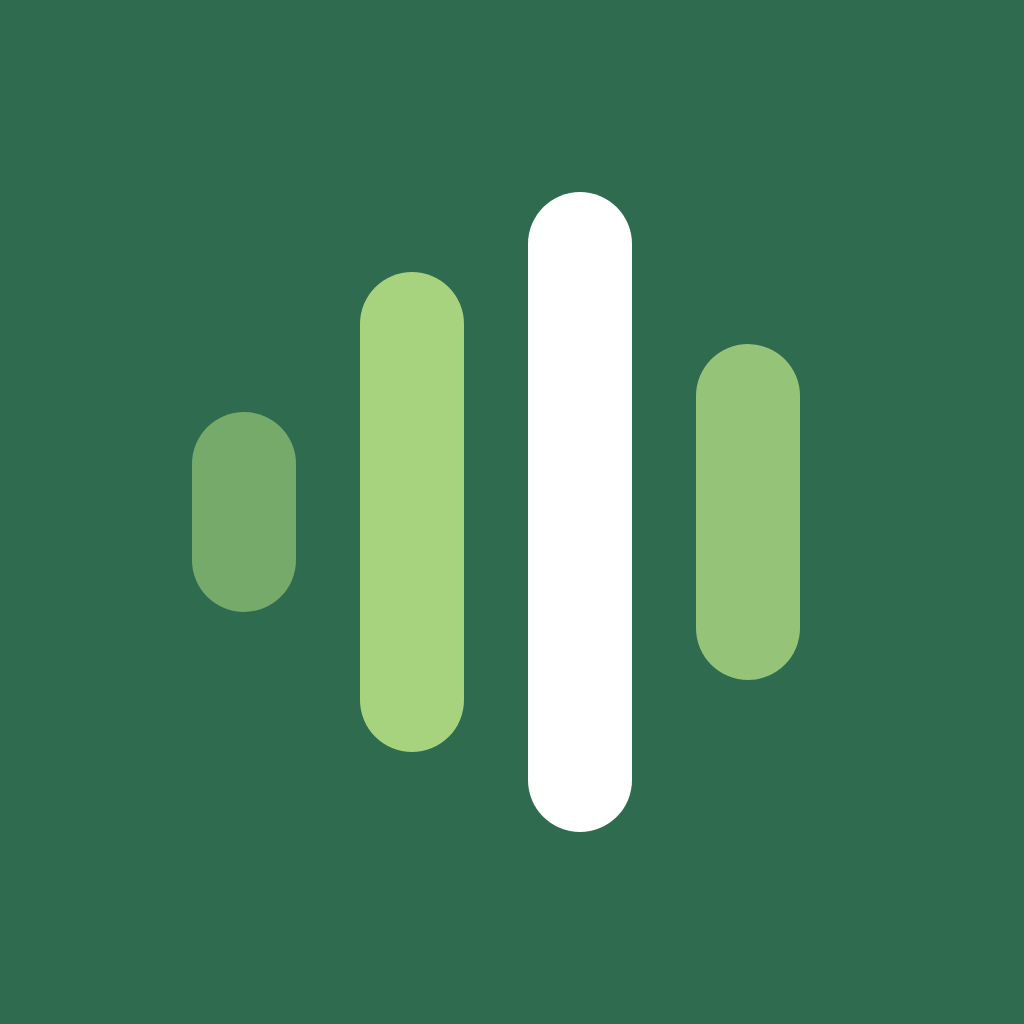
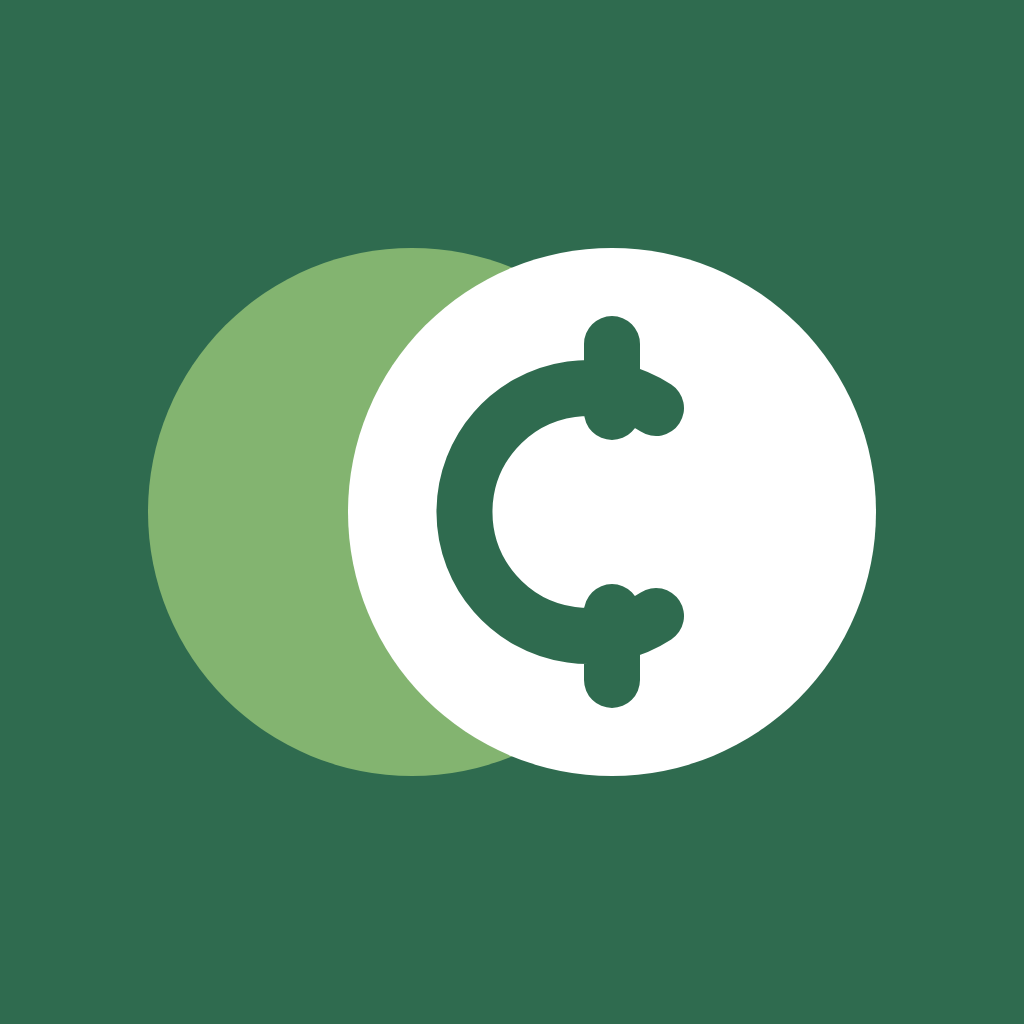
Rebrand to TwoCents; make playback reliable on iPhone
- App is now TwoCents (logo, icon, iOS/Android names, copy). Cards show
  Like, Comment and Repost (public memos only); 'Reposted by ...' on Home.
- iPhones only allow audio to start right when you tap, but playback first
  looked up the memo's audio address. Now addresses are fetched ahead for
  memos on screen, and an uncached tap starts a silent clip to keep
  playback allowed while the address loads.
- Clear messages when a memo can't play (no access, deleted, network,
  unsupported format, or tap again) instead of a generic error.

Claude-Session: https://claude.ai/code/session_01JCjs9WpGDkg7Lxdni9FUqd

Changed region(s): [[0.125, 0.1875, 0.875, 0.8125]]

diff --git a/www/app.js b/www/app.js
@@ -1,4 +1,4 @@
-/* RiffRaff — scrollable voice memos.
+/* TwoCents — scrollable voice memos.
  * Vanilla JS modules, no build step for the app itself.
  * Data comes from a backend: demo (on-device examples) or Firebase (real accounts),
  * chosen by www/firebase-config.js.
@@ -66,9 +66,9 @@ function onHome(m) {
     || (m.amplifiedBy && m.amplifiedBy.length > 0);
 }
 function amplifiedText(names) {
-  if (names.length === 1) return `Amplified by ${names[0]}`;
-  if (names.length === 2) return `Amplified by ${names[0]} and ${names[1]}`;
-  return `Amplified by ${names[0]} and ${names.length - 1} others`;
+  if (names.length === 1) return `Reposted by ${names[0]}`;
+  if (names.length === 2) return `Reposted by ${names[0]} and ${names[1]}`;
+  return `Reposted by ${names[0]} and ${names.length - 1} others`;
 }
 const feedLabel = $('#feed-label');
 
@@ -137,11 +137,11 @@ function memoHTML(m, reason) {
         </button>
         <button class="act" data-act="comments">
           <svg viewBox="0 0 24 24"><path d="M4 5h16v11H9l-5 4z"/></svg>
-          <span class="act-label">Riff</span><span class="act-count">${fmtCount(m.comments || 0)}</span>
+          <span class="act-label">Comment</span><span class="act-count">${fmtCount(m.comments || 0)}</span>
         </button>
-        ${m.audience === 'global' ? `<button class="act act-amp ${m.amplified ? 'amplified' : ''}" data-act="amplify" aria-pressed="${!!m.amplified}" ${mine ? 'disabled title="You can’t amplify your own memo"' : ''}>
-          <svg viewBox="0 0 24 24"><path d="M3 10v4h3l5 4V6L6 10zM15 9a4 4 0 0 1 0 6M18 6a8 8 0 0 1 0 12"/></svg>
-          <span class="act-label">Amplify</span><span class="act-count">${fmtCount(m.amplifies || 0)}</span>
+        ${m.audience === 'global' ? `<button class="act act-amp ${m.amplified ? 'amplified' : ''}" data-act="amplify" aria-pressed="${!!m.amplified}" ${mine ? 'disabled title="You can’t repost your own memo"' : ''}>
+          <svg viewBox="0 0 24 24"><path d="M4 11V9a3 3 0 0 1 3-3h12m-3-3 3 3-3 3M20 13v2a3 3 0 0 1-3 3H5m3 3-3-3 3-3"/></svg>
+          <span class="act-label">Repost</span><span class="act-count">${fmtCount(m.amplifies || 0)}</span>
         </button>` : ''}
         <button class="more-btn" data-act="more" aria-label="More options for this memo">${ICON_MORE}</button>
       </div>
@@ -149,6 +149,7 @@ function memoHTML(m, reason) {
 }
 
 function renderList(el, memos, emptyText, reasons) {
+  prefetchAudio(memos);
   el.innerHTML = memos.length
     ? memos.map(m => memoHTML(m, reasons && reasons.get(m.id))).join('')
     : `<li class="empty">${emptyText}</li>`;
@@ -227,7 +228,7 @@ function rankDiscover(memos) {
     const plays = listening.plays[m.userId] || 0;
     if (plays) { affinity += Math.min(plays, 5) * 0.5; reason = reason || `You’ve listened to @${m.author.handle}`; }
     const popularity = Math.log1p(m.likes) + 1.5 * Math.log1p(m.comments || 0) + 2 * Math.log1p(m.amplifies || 0);
-    if (!reason && popularity >= 3) reason = 'Popular on RiffRaff';
+    if (!reason && popularity >= 3) reason = 'Popular on TwoCents';
     const ageHours = Math.max(0, now - m.createdAt) / 36e5;
     let score = (1 + popularity + affinity) / Math.pow(ageHours + 2, 0.8);
     if (state.following.has(m.userId)) { score *= 0.5; reason = ''; }
@@ -347,6 +348,34 @@ async function sourceFor(m) {
   return urlCache.get(m.id);
 }
 
+// iPhones only let audio start right when you tap. Looking up a memo's audio
+// address takes a moment, so: fetch addresses ahead of time for memos on screen,
+// and if one isn't ready, start a silent clip on tap to keep playback allowed.
[1 lines of base64/hex data omitted]
+const prefetching = new Set();
+function prefetchAudio(memos) {
+  if (!backend || !backend.me) return;
+  memos.slice(0, 15).forEach(m => {
+    if (urlCache.has(m.id) || prefetching.has(m.id)) return;
+    prefetching.add(m.id);
+    backend.audioUrl(m)
+      .then(url => urlCache.set(m.id, url))
+      .catch(() => {})
+      .finally(() => prefetching.delete(m.id));
+  });
+}
+function playErrorMessage(e) {
+  const code = (e && e.code) || '';
+  if (code === 'storage/unauthorized') return 'You don’t have access to this memo anymore.';
+  if (code === 'storage/object-not-found') return 'This memo’s audio was deleted.';
+  if (code.startsWith('storage/')) return 'Couldn’t load the audio. Check your connection and try again.';
+  if (e && e.name === 'NotAllowedError') return 'Tap play again to listen.';
+  if ((e && e.name === 'NotSupportedError') || (audio.error && audio.error.code === 4)) {
+    return 'This memo’s audio format can’t play on this device.';
+  }
+  return 'Couldn’t play this memo. Try again.';
+}
+
 function cardsFor(id) {
   return document.querySelectorAll(`.memo[data-id="${CSS.escape(id)}"]`);
 }
@@ -395,8 +424,15 @@ async function togglePlay(m, seekFrac) {
   player.memo = m;
   markPlaying(m.id, true);
   try {
-    audio.src = await sourceFor(m);
-    if (player.memo !== m) return;
+    if (urlCache.has(m.id)) {
+      audio.src = urlCache.get(m.id); // ready: start playing within the tap
+    } else {
+      audio.src = SILENT_AUDIO;       // keep playback allowed while we look it up
+      audio.play().catch(() => {});
+      const url = await sourceFor(m);
+      if (player.memo !== m) return;
+      audio.src = url;
+    }
     if (seekFrac != null) {
       await new Promise(r => {
         if (audio.readyState >= 1) r();
@@ -407,7 +443,10 @@ async function togglePlay(m, seekFrac) {
     audio.playbackRate = state.rate;
     await audio.play();
   } catch (e) {
-    toast('Couldn’t play this memo.');
+    console.error('Playback failed', e, audio.error);
+    if (player.memo === m) stopPlayback();
+    toast(playErrorMessage(e));
+    return;
   }
   markPlaying(m.id, true);
   cancelAnimationFrame(player.raf);
@@ -424,6 +463,7 @@ function stopPlayback() {
   paintProgress(id, 0);
 }
 audio.addEventListener('ended', () => {
+  if (audio.src.startsWith('data:')) return; // the silent placeholder, not a memo
   const m = player.memo;
   stopPlayback();
   // Keep scrolling hands-free: play the next memo in the visible feed.
@@ -439,6 +479,12 @@ audio.addEventListener('ended', () => {
   }
 });
 audio.addEventListener('pause', () => player.memo && markPlaying(player.memo.id, true));
+audio.addEventListener('error', () => {
+  if (!player.memo || audio.src.startsWith('data:')) return;
+  console.error('Audio error', audio.error);
+  stopPlayback();
+  toast(playErrorMessage(null));
+});
 
 // ---------- Recorder ----------
 const rec = {
@@ -510,7 +556,7 @@ function drawLevels(levels) {
 function micErrorMessage(e) {
   if (!window.isSecureContext) return 'Recording needs a secure connection. Open the app from its https:// address.';
   if (!navigator.mediaDevices || !window.MediaRecorder) return 'This browser can’t record audio. Try Safari or Chrome.';
-  if (e && e.name === 'NotAllowedError') return 'RiffRaff needs your microphone. Allow microphone access in your browser or phone settings, then tap record again.';
+  if (e && e.name === 'NotAllowedError') return 'TwoCents needs your microphone. Allow microphone access in your browser or phone settings, then tap record again.';
   if (e && e.name === 'NotFoundError') return 'No microphone was found on this device.';
   return 'Couldn’t start the microphone. Close other apps using it and try again.';
 }
@@ -852,7 +898,7 @@ async function toggleAmplify(m) {
   paintAmplify(m);
   try {
     Object.assign(m, await backend.toggleAmplify({ ...m, ...before }));
-    toast(m.amplified ? 'Amplified to your followers' : 'Amplify removed');
+    toast(m.amplified ? 'Reposted to your followers' : 'Repost removed');
   } catch (e) {
     Object.assign(m, before);
     toast(friendlyError(e));
@@ -880,7 +926,7 @@ async function toggleLike(m) {
 }
 
 async function deleteMemo(m) {
-  const ok = await chooseAction('Delete this memo? Its likes, riffs and amplifies go with it. This can’t be undone.',
+  const ok = await chooseAction('Delete this memo? Its likes, comments and reposts go with it. This can’t be undone.',
     [{ key: 'delete', label: 'Delete memo', danger: true }]);
   if (ok !== 'delete') return;
   if (player.memo && player.memo.id === m.id) stopPlayback();
@@ -1028,7 +1074,7 @@ const REASONS = [
 
 // target: {type, targetId, targetAuthorId, memoId, text, author}
 async function reportFlow(target) {
-  const what = { memo: 'this memo', comment: 'this riff', user: `@${target.author.handle}` }[target.type];
+  const what = { memo: 'this memo', comment: 'this comment', user: `@${target.author.handle}` }[target.type];
   const reason = await chooseAction(`Why are you reporting ${what}?`, REASONS);
   if (!reason) return;
   const { author, ...report } = target;
@@ -1045,7 +1091,7 @@ async function reportFlow(target) {
 async function blockUser(user, confirmed) {
   if (!confirmed) {
     const ok = await chooseAction(
-      `Block @${user.handle}? They won’t be able to follow you, riff on your memos or send you memos, and you won’t see theirs. They won’t be told.`,
+      `Block @${user.handle}? They won’t be able to follow you, comment on your memos or send you memos, and you won’t see theirs. They won’t be told.`,
       [{ key: 'block', label: `Block @${user.handle}`, danger: true }]);
     if (ok !== 'block') return;
   }
@@ -1093,14 +1139,14 @@ function commentHTML(c) {
         <div class="comment-meta"><b data-user="${esc(u.id)}">${esc(u.name)}</b> · ${timeAgo(c.createdAt)}</div>
         <p class="comment-text">${esc(filterText(c.text))}</p>
       </div>
-      <button class="more-btn" data-cmore="${esc(c.id)}" aria-label="More options for this riff">${ICON_MORE}</button>
+      <button class="more-btn" data-cmore="${esc(c.id)}" aria-label="More options for this comment">${ICON_MORE}</button>
     </li>`;
 }
 function renderComments() {
   $('#comment-list').innerHTML = comments.length
     ? comments.map(commentHTML).join('')
-    : '<li class="empty">No riffs yet. Start one.</li>';
-  $('#comments-title').textContent = comments.length === 1 ? '1 riff' : `${comments.length} riffs`;
+    : '<li class="empty">No comments yet. Be the first.</li>';
+  $('#comments-title').textContent = comments.length === 1 ? '1 comment' : `${comments.length} comments`;
 }
 function setCommentCount(m, n) {
   m.comments = n;
@@ -1121,7 +1167,7 @@ function openComments(m) {
   openMemo = m;
   comments = [];
   $('#comment-list').innerHTML = '<li class="empty">Loading…</li>';
-  $('#comments-title').textContent = 'Riffs';
+  $('#comments-title').textContent = 'Comments';
   commentInput.value = '';
   $('#comment-send').disabled = true;
   commentsSheet.hidden = false;
@@ -1151,7 +1197,7 @@ $('#comment-form').addEventListener('submit', async e => {
     const list = $('#comment-list');
     list.scrollTop = list.scrollHeight;
   } catch (err) {
-    toast(err && err.code === 'permission-denied' ? 'You can’t riff on this memo.' : friendlyError(err));
+    toast(err && err.code === 'permission-denied' ? 'You can’t comment on this memo.' : friendlyError(err));
     $('#comment-send').disabled = false;
   }
 });
@@ -1164,12 +1210,12 @@ $('#comment-list').addEventListener('click', async e => {
   const mine = c.userId === backend.me.id;
   const myMemo = m.userId === backend.me.id;
   const items = [];
-  if (mine || myMemo) items.push({ key: 'delete', label: 'Delete riff', danger: true });
+  if (mine || myMemo) items.push({ key: 'delete', label: 'Delete comment', danger: true });
   if (!mine) {
-    items.push({ key: 'report', label: 'Report riff', danger: true });
+    items.push({ key: 'report', label: 'Report comment', danger: true });
     items.push({ key: 'block', label: `Block @${c.author.handle}`, danger: true });
   }
-  const key = await chooseAction(mine ? 'Your riff' : `Riff from @${c.author.handle}`, items);
+  const key = await chooseAction(mine ? 'Your comment' : `Comment from @${c.author.handle}`, items);
   if (key === 'delete') {
     try {
       await backend.deleteComment(m, c);
@@ -1684,9 +1730,9 @@ async function boot() {
       backend = mod.createFirebaseBackend(config, { emulators });
     } catch (e) {
       // With real accounts configured, never fall back to demo mode: say what happened instead.
-      console.error('RiffRaff could not connect', e);
+      console.error('TwoCents could not connect', e);
       clearTimeout(slow);
-      bootMessage('RiffRaff couldn’t load. Check your internet connection (and any content blocker), then try again.', true);
+      bootMessage('TwoCents couldn’t load. Check your internet connection (and any content blocker), then try again.', true);
       return;
     }
   } else {

diff --git a/www/index.html b/www/index.html
@@ -4,7 +4,7 @@
   <meta charset="utf-8">
   <meta name="viewport" content="width=device-width, initial-scale=1, viewport-fit=cover">
   <meta name="theme-color" content="#2f7d5b">
-  <title>RiffRaff</title>
+  <title>TwoCents</title>
   <link rel="manifest" href="manifest.webmanifest">
   <link rel="icon" href="icons/icon.svg" type="image/svg+xml">
   <link rel="stylesheet" href="fonts/fonts.css">
@@ -17,12 +17,11 @@
   <header class="topbar">
     <div class="brand">
       <svg class="brand-mark" viewBox="0 0 512 512" aria-hidden="true">
-        <rect x="76" y="196" width="56" height="120" rx="28" fill="currentColor" opacity=".45"/>
-        <rect x="168" y="120" width="56" height="272" rx="28" fill="currentColor"/>
-        <rect x="260" y="76" width="56" height="360" rx="28" fill="currentColor"/>
-        <rect x="352" y="160" width="56" height="192" rx="28" fill="currentColor" opacity=".7"/>
+        <circle cx="206" cy="256" r="150" fill="currentColor" opacity=".45"/>
+        <circle cx="306" cy="256" r="150" fill="currentColor"/>
+        <path d="M330 196a70 70 0 1 0 0 120M306 160v40M306 312v40" fill="none" stroke="var(--bg)" stroke-width="30" stroke-linecap="round"/>
       </svg>
-      <h1>riffraff</h1>
+      <h1>twocents</h1>
     </div>
     <nav class="filters" id="filters" aria-label="Filter memos by audience">
       <button class="chip" data-filter="close" data-aud="close" aria-pressed="false">Close friends</button>
@@ -33,11 +32,10 @@
   <!-- Loading screen: covers the app until it's connected and knows who you are -->
   <div class="boot" id="boot" role="status" aria-live="polite">
     <svg class="boot-mark" viewBox="0 0 512 512" aria-hidden="true">
-      <rect x="76" y="196" width="56" height="120" rx="28" fill="currentColor" opacity=".45"/>
-      <rect x="168" y="120" width="56" height="272" rx="28" fill="currentColor"/>
-      <rect x="260" y="76" width="56" height="360" rx="28" fill="currentColor"/>
-      <rect x="352" y="160" width="56" height="192" rx="28" fill="currentColor" opacity=".7"/>
-    </svg>
+        <circle cx="206" cy="256" r="150" fill="currentColor" opacity=".45"/>
+        <circle cx="306" cy="256" r="150" fill="currentColor"/>
+        <path d="M330 196a70 70 0 1 0 0 120M306 160v40M306 312v40" fill="none" stroke="var(--bg)" stroke-width="30" stroke-linecap="round"/>
+      </svg>
     <p class="boot-text" id="boot-text">Loading…</p>
     <button class="primary-btn boot-retry" id="boot-retry" hidden>Try again</button>
   </div>
@@ -249,13 +247,13 @@
     <div class="sheet-grip" aria-hidden="true"></div>
     <header class="sheet-head">
       <span class="sheet-spacer"></span>
-      <h2 id="comments-title">Riffs</h2>
+      <h2 id="comments-title">Comments</h2>
       <button class="text-btn text-btn-end" id="comments-done">Done</button>
     </header>
     <ul class="comment-list" id="comment-list"></ul>
     <form class="comment-form" id="comment-form" novalidate>
-      <label class="visually-hidden" for="comment-input">Add a riff</label>
-      <input id="comment-input" type="text" maxlength="280" placeholder="Add a riff…" autocomplete="off" enterkeyhint="send">
+      <label class="visually-hidden" for="comment-input">Add a comment</label>
+      <input id="comment-input" type="text" maxlength="280" placeholder="Add a comment…" autocomplete="off" enterkeyhint="send">
       <button class="send-btn" id="comment-send" type="submit" disabled>Post</button>
     </form>
   </section>
@@ -280,7 +278,7 @@
       <h2 id="blocked-title">Blocked people</h2>
       <button class="text-btn text-btn-end" id="blocked-done">Done</button>
     </header>
-    <p class="form-text sheet-note">Blocked people can’t follow you, riff on your memos, or send you memos, and you won’t see their memos or riffs. They aren’t told you blocked them.</p>
+    <p class="form-text sheet-note">Blocked people can’t follow you, comment on your memos, or send you memos, and you won’t see their memos or comments. They aren’t told you blocked them.</p>
     <ul class="people" id="blocked-list"></ul>
   </section>
 
@@ -326,12 +324,11 @@
     <div class="auth-inner">
       <div class="auth-brand">
         <svg class="auth-mark" viewBox="0 0 512 512" aria-hidden="true">
-        <rect x="76" y="196" width="56" height="120" rx="28" fill="currentColor" opacity=".45"/>
-        <rect x="168" y="120" width="56" height="272" rx="28" fill="currentColor"/>
-        <rect x="260" y="76" width="56" height="360" rx="28" fill="currentColor"/>
-        <rect x="352" y="160" width="56" height="192" rx="28" fill="currentColor" opacity=".7"/>
+        <circle cx="206" cy="256" r="150" fill="currentColor" opacity=".45"/>
+        <circle cx="306" cy="256" r="150" fill="currentColor"/>
+        <path d="M330 196a70 70 0 1 0 0 120M306 160v40M306 312v40" fill="none" stroke="var(--bg)" stroke-width="30" stroke-linecap="round"/>
       </svg>
-        <h1 id="auth-title">riffraff</h1>
+        <h1 id="auth-title">twocents</h1>
         <p>Voice memos from close friends, people you follow, and the world.</p>
       </div>
 

diff --git a/www/firebase-config.js b/www/firebase-config.js
@@ -1,4 +1,4 @@
-// Firebase project settings for RiffRaff.
+// Firebase project settings for TwoCents.
 //
 // Set `firebaseConfig` to null to run the app in demo mode instead (example
 // people and memos, everything stays on the device).

diff --git a/README.md b/README.md
@@ -1,4 +1,4 @@
-# RiffRaff
+# TwoCents
 
 Scrollable voice memos. Open the app and scroll through memos from your close friends, people you follow, and the world, newest first.
 
@@ -13,7 +13,7 @@ The app is built with web code (`www/`) and packaged as native iOS and Android a
 - When a memo finishes, the next one in the list plays automatically.
 - **Playback speed:** press and hold any play button to pick 1×, 1.25×, 1.5× or 2×. The speed applies to every memo and is remembered. Cards show the speed when it isn't 1×.
 
-**Discover**: public (global) memos from everyone, ranked for you. The ranking favors people followed by people you follow, people whose memos you've liked or listened to, popular memos (likes and comments) and recent ones. Memos you've already heard and memos from people you already follow (they're on Home) rank lower. Each card says why it was picked ("Followed by Maya", "Popular on RiffRaff"), and a "People you might like" row suggests accounts to follow. Listening history is kept on the device.
+**Discover**: public (global) memos from everyone, ranked for you. The ranking favors people followed by people you follow, people whose memos you've liked or listened to, popular memos (likes and comments) and recent ones. Memos you've already heard and memos from people you already follow (they're on Home) rank lower. Each card says why it was picked ("Followed by Maya", "Popular on TwoCents"), and a "People you might like" row suggests accounts to follow. Listening history is kept on the device.
 
 **Bottom bar**: Home · Discover · Post · Search · Profile
 
@@ -26,9 +26,9 @@ The app is built with web code (`www/`) and packaged as native iOS and Android a
 
 **Close friends are private.** Your close friends list is only visible to you. You edit it from your profile, nobody is told when they're added or removed, and the list and its size never appear on your profile. Memos you post to close friends also stay off your profile.
 
-**Like, Riff, Amplify**: every memo has **Like** (heart), **Riff** (text replies, up to 280 characters; delete your own, or any riff on your own memo) and, on public memos, **Amplify** (repost to your followers' Home with an "Amplified by …" line). Only public (Global) memos can be amplified, and not your own. Tap Amplify again to undo. Delete your own memos from the ••• menu.
+**Like, Comment, Repost**: every memo has **Like** (heart), **Comment** (text replies, up to 280 characters; delete your own, or any comment on your own memo) and, on public memos, **Repost** (shares it to your followers' Home with a "Reposted by …" line). Only public (Global) memos can be reposted, and not your own. Tap Repost again to undo. (Reposts are stored as `amplifies` in Firestore.) Delete your own memos from the ••• menu.
 
-**Report and block**: tap ••• on a memo or riff to report it (spam, harassment, hate speech, sexual content, violence, self-harm, or something else) or block the person. Blocked people can't follow you, riff on your memos or send you memos, and you won't see their memos or riffs. They aren't told. Manage your list under Profile → Blocked people. A basic word filter also masks strong profanity and slurs in captions and riffs (`www/text-filter.js`).
+**Report and block**: tap ••• on a memo or comment to report it (spam, harassment, hate speech, sexual content, violence, self-harm, or something else) or block the person. Blocked people can't follow you, comment on your memos or send you memos, and you won't see their memos or comments. They aren't told. Manage your list under Profile → Blocked people. A basic word filter also masks strong profanity and slurs in captions and comments (`www/text-filter.js`).
 
 **Follow requests and profiles**: tap anyone's name or avatar to open their profile. Without following, you only hear their public memos. **Follow** sends a request (the button shows **Requested**); they approve or decline it under **Profile → Follow requests** (a red dot on the Profile tab means someone's waiting). Approved followers hear followers-only memos, including older ones; close friends memos need you on their close friends list. Access follows the current relationship, so it ends when someone removes you as a follower or takes you off their list. Unfollowing or canceling a request works from the same button.
 
